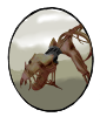
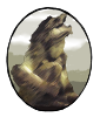
单位从配置读取信息

diff --git a/assets/scripts/battle/battle.js b/assets/scripts/battle/battle.js
@@ -96,43 +96,20 @@ cc.Class({
         // 初始化单位列表
         this.creatures.removeAllChildren();
         
-        var url1 = cc.url.raw('resources/graphics/creature/creature1.png');
-        var c1 = new cc.SpriteFrame(url1);
+        var dataApi = require('dataApi');
         
         // 使用给定的模板在场景中生成一个新节点
         var knight1 = cc.instantiate(this.creaturePrefab);
-        knight1.getComponent('creature').init("player1", 3, 50, 3, 1,"nomal");
-        knight1.getComponent('creature').battle = this;
-        knight1.setPosition(this.tiled.toPixelLoc(0, 0));
-        knight1.getChildByName('Sprite').getComponent(cc.Sprite).spriteFrame = c1;
+        knight1.getComponent('creature').init(this, 'player1', dataApi.creatures.random(), this.tiled.randPixelLoc());
         this.creatures.addChild(knight1);
         
         var knight2 = cc.instantiate(this.creaturePrefab);
-        knight2.getComponent('creature').init("player1", 2, 50, 3, 1,"nomal");
-        knight2.getComponent('creature').battle = this;
-        knight2.setPosition(this.tiled.toPixelLoc(4, 2));
-        knight2.getChildByName('Sprite').getComponent(cc.Sprite).spriteFrame = c1;
+        knight2.getComponent('creature').init(this, 'player1', dataApi.creatures.random(), this.tiled.randPixelLoc());
         this.creatures.addChild(knight2);
-        
-        
-        var url2 = cc.url.raw('resources/graphics/creature/creature4.png');
-        var c2 = new cc.SpriteFrame(url2);
-        
-        // var archer1 = cc.instantiate(this.creaturePrefab);
-        // archer1.getComponent('creature').init("player2", 3.5, 10, 2, 3);
-        // archer1.getComponent('creature').battle = this;
-        // archer1.setPosition(this.tiled.toPixelLoc(12, 3));
-        // archer1.getChildByName('Sprite').getComponent(cc.Sprite).spriteFrame = c2;
-        // this.creatures.addChild(archer1);
-        
+
         var archer2 = cc.instantiate(this.creaturePrefab);
-        archer2.getComponent('creature').init("player2", 3.5, 500, 2, 3,"dog");
-        archer2.getComponent('creature').battle = this;
-        archer2.setPosition(this.tiled.toPixelLoc(7, 2));
-        archer2.getChildByName('Sprite').getComponent(cc.Sprite).spriteFrame = c2;
+        archer2.getComponent('creature').init(this, 'player2', dataApi.creatures.random(), this.tiled.randPixelLoc());
         this.creatures.addChild(archer2);
-        
-        
     },
     
     /// 基础函数 - 获取六边形坐标点x，y的上的单位，无则返回空

diff --git a/assets/scripts/battle/creature.js b/assets/scripts/battle/creature.js
@@ -12,16 +12,23 @@ cc.Class({
         type:"",//类型
     },
     
-    init:function(camp="", atb=5, hp=100, mov=3, rng=1,type=""){
+    init:function(battle, camp = 'player1', data, loc){  
+        this.battle = battle;
         this.camp = camp;
-        this.Atb = atb;
-        this.MaxHP = hp;
-        this.HP = hp;
-        this.Mov = mov;
-        this.Rng = rng;
-        this.curAtb = atb * Math.random() + 0.1;
+
+        this.MaxHP = data.hp;
+        this.HP = data.hp;
         this.showHP = this.HP;
-        this.type = type;
+        this.Mov = data.mov;
+        this.Rng = data.rng;
+        this.Atb = data.atb;
+        this.curAtb = data.atb * Math.random() + 0.1;
+        this.type = data.type;
+
+        this.node.setPosition(loc);
+
+        var url = cc.url.raw('resources/graphics/creature/' + data.icon + '.png');
+        this.node.getChildByName('Sprite').getComponent(cc.Sprite).spriteFrame = new cc.SpriteFrame(url);
     },
 
     // use this for initialization

diff --git a/assets/scripts/utils/dataApi.js b/assets/scripts/utils/dataApi.js
@@ -18,7 +18,11 @@ var Data = function(head, lines) {
 		var values = line.split('\t');
 		var item = {};
 		for (var k in fields) {
-			item[k] = values[fields[k]];
+			var v = values[fields[k]];
+			if(!isNaN(v)){
+				v = Number(v);
+			}
+			item[k] = v;
 		}
 		result[item.id] = item;
 		ids.push(item.id);
@@ -76,6 +80,8 @@ Data.prototype.all = function() {
 };
 
 var exp = {};
+exp.inited = false;
+
 var datacount = 0;
 var addData = function(dataname){
 	datacount ++;
@@ -94,7 +100,10 @@ var addData = function(dataname){
 		}
 		var head = datas.splice(0, 2)[1]; // 提取出头部，并将datas变为纯数据
 		exp[dataname] = new Data(head, datas);
-		datacount <= 0 && cc.log('-----配表加载完毕-----');
+		if(datacount <= 0){
+			exp.inited = true;
+			cc.log('-----配表加载完毕-----');
+		}
 	});
 };
 

diff --git a/assets/scripts/battle/battleTiled.js b/assets/scripts/battle/battleTiled.js
@@ -38,6 +38,15 @@ cc.Class({
         return cc.p(x * this.XSpacing + this.TiledOffset, y * this.TiledSize + (x + 1) % 2 * this.TiledOffset);
     },
 
+    randHexagonLoc:function(){
+        return cc.p(Math.floor(Math.random() * this.MapWidth), Math.floor(Math.random() * this.MapHeight));
+    },
+
+    randPixelLoc:function(){
+        var loc = this.randHexagonLoc();
+        return this.toPixelLoc(loc.x, loc.y);
+    },
+
     /// 基础函数 - 获取一个点周围的点坐标
     isLocValid:function (r){
         return r.x >= 0 && r.x < this.MapWidth && r.y >= 0 && r.y < this.MapHeight;
